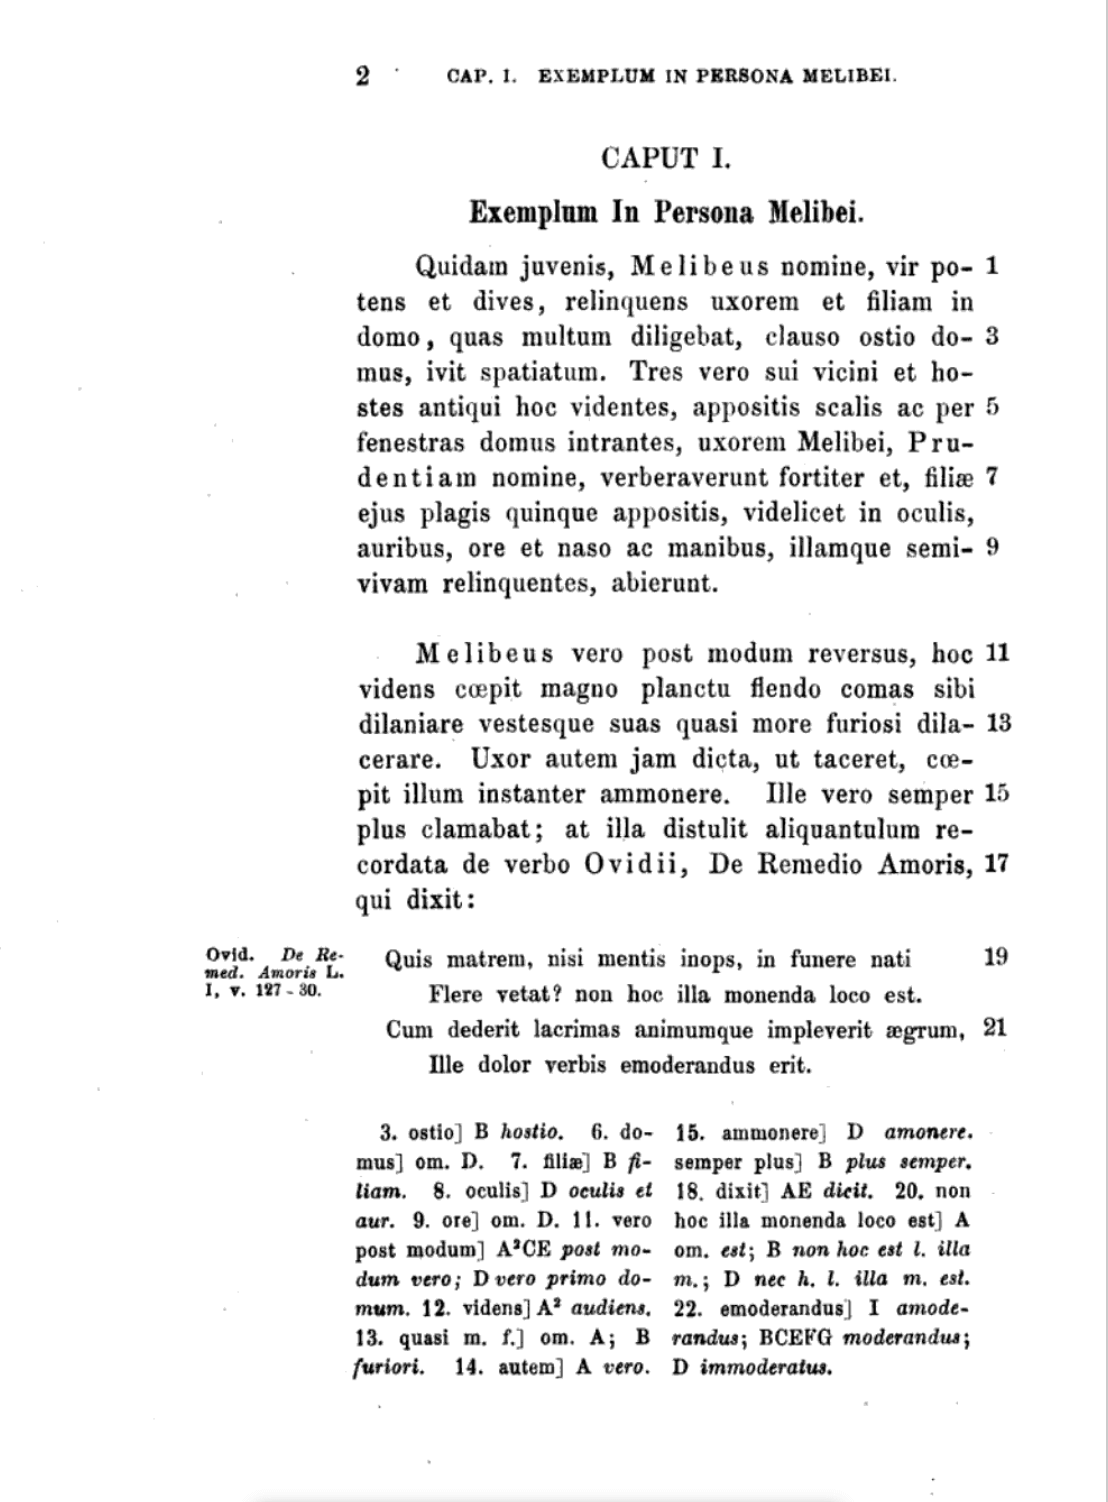
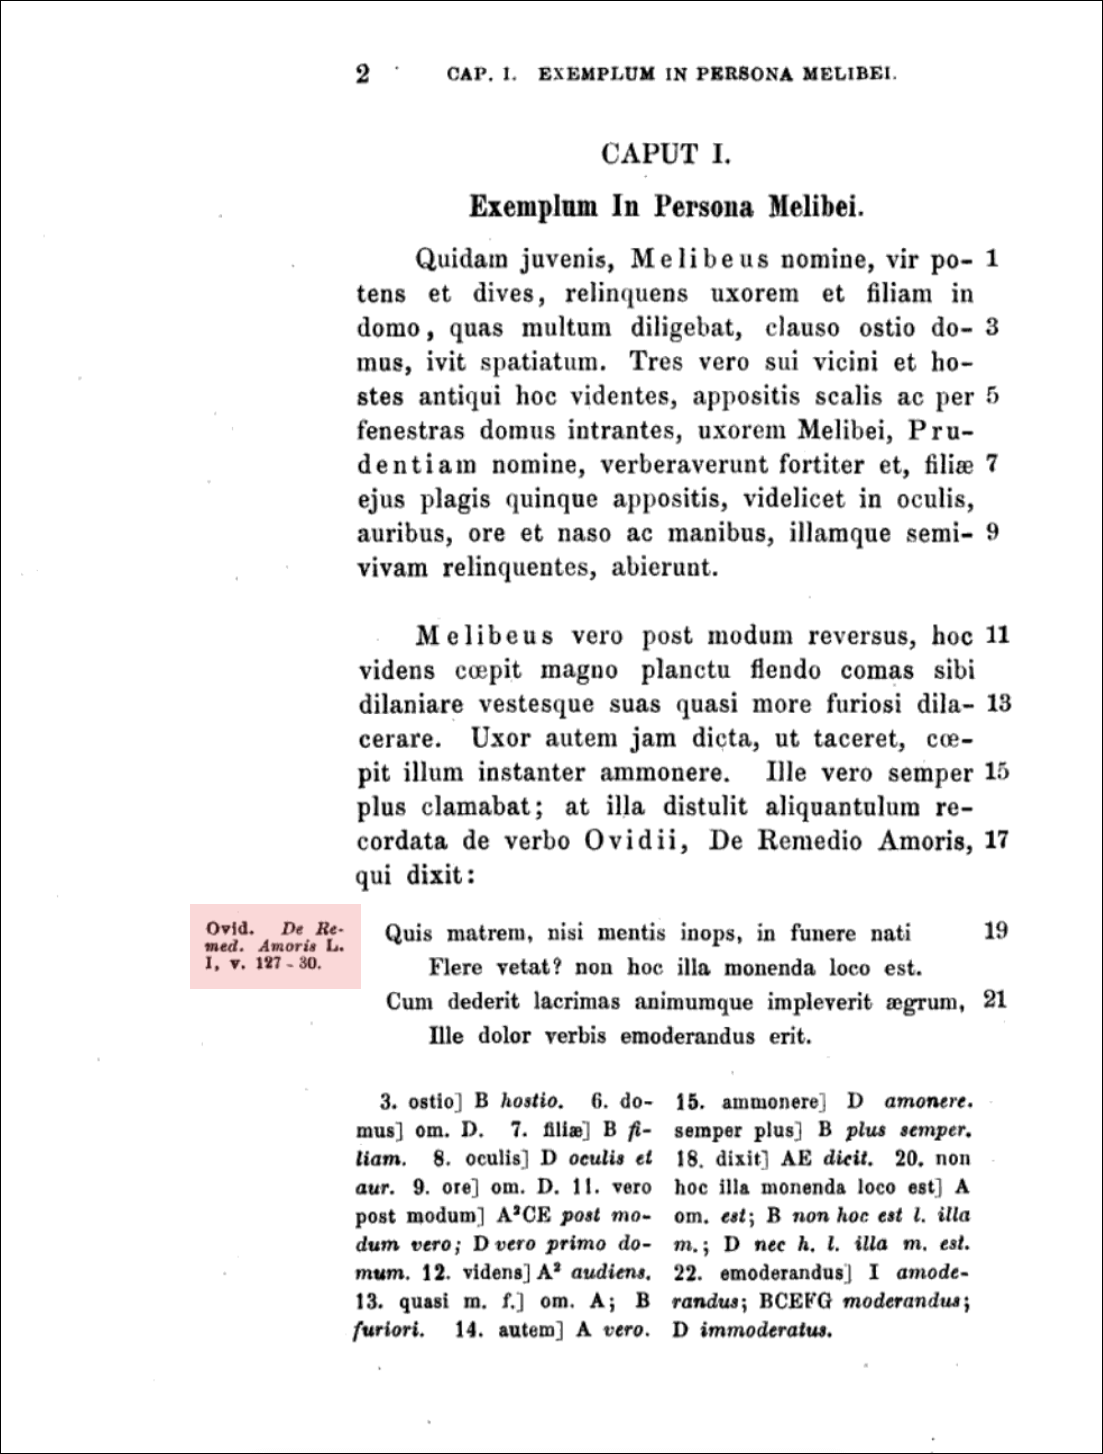
update

diff --git a/about.html b/about.html
@@ -48,33 +48,37 @@
     <section class="container p-5">
         <h1>About</h1>
         <div class="row">
-            <div class="col-8"> 
+            <div class="col-8">
                 <p>The Liber Consolationis Digital Archive is an ongoing research project by undergraduate students of Washington and Lee University 
                 under the direction of Melissa Vise, Assistant Professor of History, and Mackenzie Brooks, Associate Professor and Digital Humanities Librarian. 
                 The project welcomes a breadth of interests including (but not limited to) medieval history and literature, classics, digital humanities, data science and coding.</p>
                 <p>The project aims to preserve and present <em>Liber Consolationis et Consilii</em> in a more comprehensive and interactive format with <a href="https://tei-c.org/" target="_blank">Text Encoding Initiative</a> (TEI). 
                 Textual transmission and encoding decisions are explained below. To learn about the historical context of <em>Liber Consolationis et Consilii</em>, read <a href="history.html">here.</a></p>
-            </div>
-            <!--credits card-->
-            <div class="col-4">
-                <div class="card bg-light mb-3" style="max-width:21rem" id="credits">
-                <div class="card-header">Student Contributors</div>
-                    <div class="card-body">
-                        <p class="card-text">Current Undergraduate Editor and Translator: Margaret Alexander, Class of 2024</p>
-                        <p class="card-text">Logo, web design and initial coding by Nayongi Borthwick, Class of 2023</p>
+                <div class="acknowledge">
+                    <div class="row pb-1">
+                        <div class="col"><strong>Contributors</strong></div>
+                    </div>
+                    <div class="row pb-1">
+                        <div class="col-3" id="contribution"><p>Margaret Alexander, Class of 2024</p></div>
+                        <div class="col-6">Current undergraduate editor and translator, TEI, early CETEIcean implementation, research on textual criticism and manuscript transmission, source verification, systematized notes, and text interactivity.</div>
+                    </div>
+                    <div class="row pt-2 pb-1">
+                        <div class="col-3" id="contribution"><p>Nayongi Borthwick, Class of 2023</p></div>
+                        <div class="col-6"><p>Site logo, web design, and source verification.</p></div>
                     </div>
                 </div>
-            </div>
-        </div>
-
-        <div class="row">
-            <div class="col-8">
-                <h2 id="1"><a href="#1" class="redfleuron"><span style="color:#914631"></span>&#10087;</a></span> Evolution of the Text</h2>
+                <h2 class="about pt-3" id="1"><a href="#1" class="redfleuron"><span style="color:#914631"></span>&#10087;</a></span> Evolution of the Text</h2>
                 <h3 id="1.1"><a href="#1.1" class="bluefleuron"><span style="color:#314175"></span>&#10087;</a></span> From Manuscripts to Critical Edition</h3>
                 <p>While <em>Liber Consolationis et Consilii</em> was originally published in 1246, the core Latin text on this site is from Thor Sundby's 1873 critical print edition, published by The Chaucer Society in London. It has since been digitized by <a href="https://www.google.com/books/edition/Albertani_Brixiensis_Liber_consolationis/OFgJAAAAQAAJ?hl=en&gbpv=0" target="_blank">Google Books</a>. Sundby’s critical edition is the product of 15 collated manuscripts. To get a better idea of what Sundby was working with, here are the first pages from two manuscripts, designated by Sundby as A and A2, respectively.</p>
             </div>
+            <div class="col-4">
+                <figure>
+                    <img src="images/albertanocoded.png" style="max-width: 350px; height: auto; ">
+                    <figcaption class="caption" style="width: 350px">Encoding a text is a complex, multi-step process. Unlike the calligraphy of a manuscript, the detail and artistry lies beneath the surface.</figcaption>
+                </figure>
+            </div>
         </div>
-        <div class="d-flex justify-content-evenly">
+        <div class="d-flex justify-content-evenly py-3">
 
                 <figure>
                     <a href="https://opac.kbr.be/LIBRARY/doc/SYRACUSE/10748126" target="_blank">
@@ -99,18 +103,23 @@
         </div>
         <div class="row">
             <div class="col-8">
-                <p>While raw manuscripts are not the primary focus of this project, one should note the lack of marginalia in the manuscripts. Sundby’s most remarkable contribution—aside from laboriously noting textual variants—was verifying over 500 external referrences that would not have been present in the manuscripts. Within the text itself, Albertano usually introduces a quote with the attributed author and occasionally the title of the work, though this is less common. However, many quotations are attributed passively: <em>consuevit dici</em>—translated as it is accustomed to be said. Even when an author and title are explicitly named, Albertano never includes numerical identifiers (chapter, verse, line numbers, etc.). Here is the first page of Sundby’s text. Notice that in the margin, he provides a specific reference to Ovid’s <em>Remedia Amoris</em>.
-                <img src="images/Sundby.png" style="max-width: 450px; width: auto; ">
-                <p>The foot of the page is set aside for the critical apparatus. Here is a breakdown of the textual components with their respective formatting.</p>
-                <img src="images/SundbyAnalyzed.png" style="max-width: 700px; width: auto; ">
+                <p>While raw manuscripts are not the primary focus of this project, one should note the lack of marginalia in the manuscripts. Sundby’s most remarkable contribution—aside from laboriously noting textual variants—was verifying over 500 external referrences that would not have been present in the manuscripts. Within the text itself, Albertano usually introduces a quote with the attributed author and occasionally the title of the work, though this is less common. However, many quotations are attributed passively: <em>consuevit dici</em>—translated as it is accustomed to be said. Even when an author and title are explicitly named, Albertano never includes numerical identifiers (chapters, verses, line numbers, etc.). Here is the first page of Sundby’s text.</p>
+                <img class="pt-2 pb-4" src="images/sundby.png" style="max-width: 450px; width: auto; ">
+                <p>Notice that in the margin Sundby provides a specific reference to Ovid’s <em>Remedia Amoris</em> (the portion highlighted red). The foot of the page is set aside for the critical apparatus. The following is a breakdown of each textual component with its respective formatting. Some of these formatting choices are less common today, such as increasing the kerning of a name.</p>
+                <img class="pt-2 pb-1" src="images/SundbyAnalyzed.png" style="max-width: 700px; width: auto; ">
+            </div>
         </div>
         <div class="row">
             <div class="col-8">
                 <h3 id="1.2"><a href="#1.2" class="bluefleuron"><span style="color:#314175"></span>&#10087;</a></span> From Critical Edition to Digital Transcription</h3>
                 <p>In 2000, scholar Angus Graham digitally transcribed Sundby's text into a <a href="https://web.archive.org/web/20040110051313/http://freespace.virgin.net/angus.graham/Albertano.htm" target="_blank">Word document</a>. Graham changed Sundby’s marginal notes to footnotes, indicated by superscripted numbers. He also added around twenty notes on sources that Sundby had not included. He marked these contributions in red text.</p>
+            </div>
+            <div class="col-8 py-3">
                 <img src="images/Graham1.png" style="max-width: 350px; height: auto; ">
-                <img src="images/Graham2.png" style="max-width: 350px; height: auto; ">
-                <p> However, he silently updated Sundby’s notes to reflect modern standards. For example, “Ovid. <em>De Remed. Amoris</em> L. I, v. 127-30.” became “Ovid, <em>Remedia Amoris</em>, 127-130.” This example is a less drastic change than others since lines of poetry are more concrete numbering systems than classical prose.</p>
+                <img src="images/Graham2.png" style="max-width: 350px; height: 495.41px; ">
+            </div>
+            <div class="col-8 py-3">
+                <p> However, he silently updated Sundby’s notes to reflect modern standards. For example, “Ovid. <em>De Remed. Amoris</em> L. I, v. 127-30.” became “Ovid, <em>Remedia Amoris</em>, 127-130.” This example is a less drastic change than others since lines of poetry are more concrete numbering systems than those used for classical prose.</p>
                 <h4><strong>Transcription Errors</strong></h4>
                 <p>As expected, Graham made human errors when transcribing Sundby’s text. The 44 identified errors can be characterized in one of the following ways:</p>
                     <ol>
@@ -139,18 +148,29 @@
                             </p>
                         </li>
                     </ol>
+                <p>Though these discrepancies are usually clear, corrections to Graham's transcription have been marked within the TEI.</p>
             </div>
         </div>
 <!--Creating a digital critical edition-->
         <div class="row">
+            <h2 class="about" id="2"><a href="#2" class="redfleuron"><span style="color:#914631"></span>&#10087;</a></span> Creating a Digital Critical Edition</h2>
+            <h3 id="2.1"><a href="#2.1" class="bluefleuron"><span style="color:#314175"></span>&#10087;</a></span> The Nature of the Text</h3>
+        </div>
+        <div class="row">
             <div class="col-8">
-                <h2 id="2"><a href="#2" class="redfleuron"><span style="color:#914631"></span>&#10087;</a></span> Creating a Digital Critical Edition</h2>
-                <h3 id="2.1"><a href="#2.1" class="bluefleuron"><span style="color:#314175"></span>&#10087;</a></span> The Nature of the Text</h3>
                 <p>At its surface, <em>Liber Consolationis et Consilii</em> is less of a story than a moral dialogue. The majority of the text is speech between characters with minimal third-person narrative describing the characters’ actions. The plot is rather simple: Life-long enemies of Melibeus beat up his wife and daughter, he counsels many individuals, and chooses not to pursue vendetta. The dialogue contained therein, however, is dense, complex, and perhaps contradictory.</p>
                 <p>Text analysis by Voyant reveals that aside from common prepositions and conjunctions, <em>dixit</em> (translated as he/she/it said) is the most frequently occuring word, with 190 occurences. This excludes conjugated variants <em>dixi</em> (22), <em>dixisti</em> (14), <em>dixerunt</em> (7), <em>dixero</em> (2), <em>dixerim</em> (2), <em>dixisse</em> (1), <em>dixeris</em> (1), and <em>dixerat</em> (1). The defective <em>ait</em> (he/she/it says) occurs 116 times. Verbs from the present tense stem <em>dic-</em> are as follows: <em>dicitur</em> (24), <em>dici</em> (23), <em>dicit</em> (18), <em>dicere</em> (13), <em>dicens</em> (10), <em>dicunt</em> (9), <em>dico</em> (6). The passive participles <em>dictum</em> and <em>dicta</em> occur 21 times combined.</p>
                 <p>In summary, there are at least 527 words related to saying/speaking. Even more importantly are the quotes that follow. Like other medieval works, <em>Liber Consolationis et Consilii</em> draws upon the sayings of numerous classical authors including Cicero, Seneca, Ovid, and Horace. However, unlike other medieval moralists, Albertano does not exclusively quote the ancients but also the Bible and early Christian writers (Sundby, 1873). Having a clear understanding of how Albertano intertwines biblical and classical authorities (especially based on topic) could give us insight about continuity and/or discontinuity of justice between the classical era and middle ages. That of course, is only one example.</p>
                 <p>Below is a visual representation of how often characters quote other sources. Portions of Prudentia's dialogue from chapter 2 are highlighted in different colors according to source types: Old Testament (dark green), the New Testament (light green), and classical sources (blue). Here, the quotes roughly make up 46% of her speech.</p>
                 <img src="images/prudentiaDixit.png" style="max-width: 700px; height:auto ">
+            </div>
+            <div class="col-4">
+                <figure>
+                    <a href="https://chaucereditions.wordpress.com/1880s/1884-chaucers-stories-simnply-told/" target="_blank">
+                        <img src="images/Prudence1884.png" style="max-width: 350px; height: auto; ">
+                        <figcaption style="width: 350px" class="caption">Prudence counsels Melibeus. Seymour, Mary.  Chaucer’s Stories Simply Told.  Illustrated by E. M. Scannell.  London:  T. Nelson and Sons, 1884.</figcaption>
+                    </a>
+                </figure>   
             </div>
         </div>
         <div class="row">
@@ -173,11 +193,16 @@
                     </ul>
             </div>
         </div>
+        <div class="row">
+            <div class="col">
+            <h3 id="2.4"><a href="#2.4" class="bluefleuron"><span style="color:#314175">&#10087;</span></a> Displaying TEI with CETEIcean</h3>
+            </div>
+        </div>
 
 <!--Translation-->
         <div class="row">
             <div class="col-8">
-                <h2 id="3"><a href="#3" class="redfleuron"><span style="color:#914631"></span>&#10087;</a></span> Creating a Translation</h2>
+                <h2 class="about" id="3"><a href="#3" class="redfleuron"><span style="color:#914631"></span>&#10087;</a></span> Creating a Translation</h2>
                 <h3 id="3.1"><a href="#3.1" class="bluefleuron"><span style="color:#314175"></span>&#10087;</a></span> What English translations were consulted in the translation process?</h3>
                 <p>For biblical references, we initially consulted the New Revised Standard Version Updated Edition (NRSVUE), but ran into trouble when verses from Ecclesiasticus (The Book of Sirach) which Albertano cited were nonexistent in that translation (the Greek and Latin manuscripts differ greatly). 
                     We switched to the Douay-Rheims Catholic Bible for consistency. However, we are in the process of creating a feature with comparative NRSV referrences.</p>
@@ -254,7 +279,7 @@
 
 
                 
-                <h2>Questions?</h2>
+                <h2 class="about">Questions?</h2>
                 <p>If you would like to request more information or report errors, please contact Margaret Alexander by emailing alexanderm24@mail.wlu.edu</p>
             </div>
         </div>

diff --git a/css/style.css b/css/style.css
@@ -1,8 +1,33 @@
-
 body {
   background-color: white;
   font-family: 'junicode-expanded';
   font-size: 1.125rem;
+}
+
+table {
+  display: inline-table;
+  width: 700px;
+  text-indent: 3rem;
+}
+
+h2 #subtitle {
+  text-indent: none;
+}
+
+.about {
+  text-indent: -1rem;
+}
+
+h3 {
+  font-size: 25px;
+}
+
+#contribution {
+  width: 180px;
+}
+
+.acknowledge {
+  margin-left: 50px;
 }
 
 /*caption formatting*/
